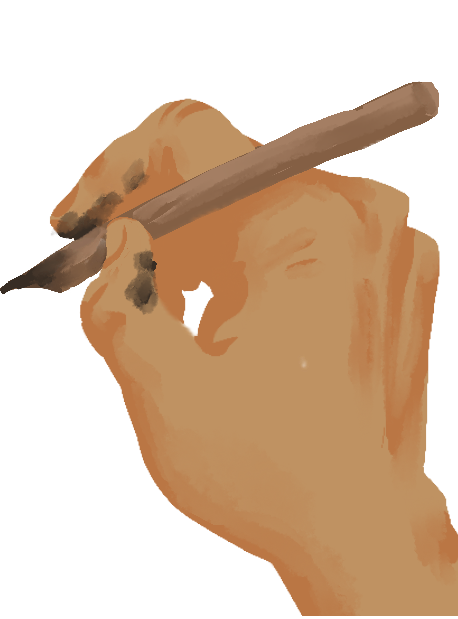
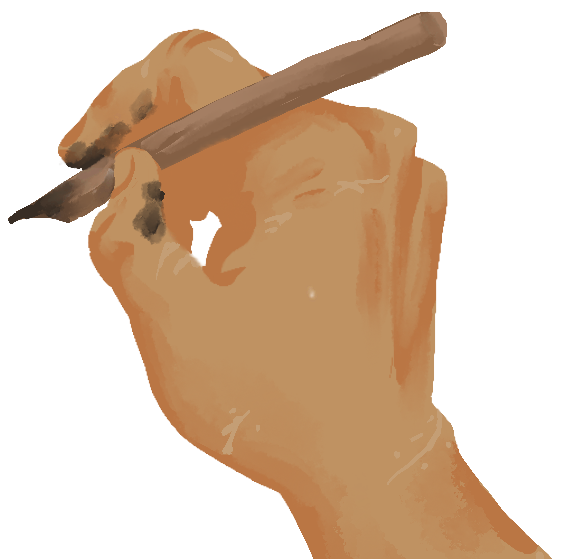
Image updates + added elevator_alone.PNG and elevator_us.PNG Fixed flying writing hand

diff --git a/web_export/style.css b/web_export/style.css
@@ -127,13 +127,15 @@ h2 {
 
 .hand {
     position: sticky;
-    height: 70%;
-    width: 30%;
+    bottom: 0;
+    height: 48%;
+    width: 38%;
     margin-top: -16%;
-    margin-left: 70%;
-    background-image: url("Images/writing_hand.PNG");
+    margin-left: 60%;
+    /* background-image: url("Images/writing_hand.PNG");
     background-size: 78%;
-    background-repeat: no-repeat;
+    background-repeat: no-repeat; */
+    overflow: visible;
 }
 
 @media screen and (prefers-reduced-motion: no-preference) {

diff --git a/web_export/index.html b/web_export/index.html
@@ -26,7 +26,7 @@
                 <h2 class="byline"></h2>
             </div>
         </div>	
-	<div class="hand"></hand>
+	<div class="hand"> <img src="Images/writing_hand.PNG"></img> </hand>
     </div>
 
 
